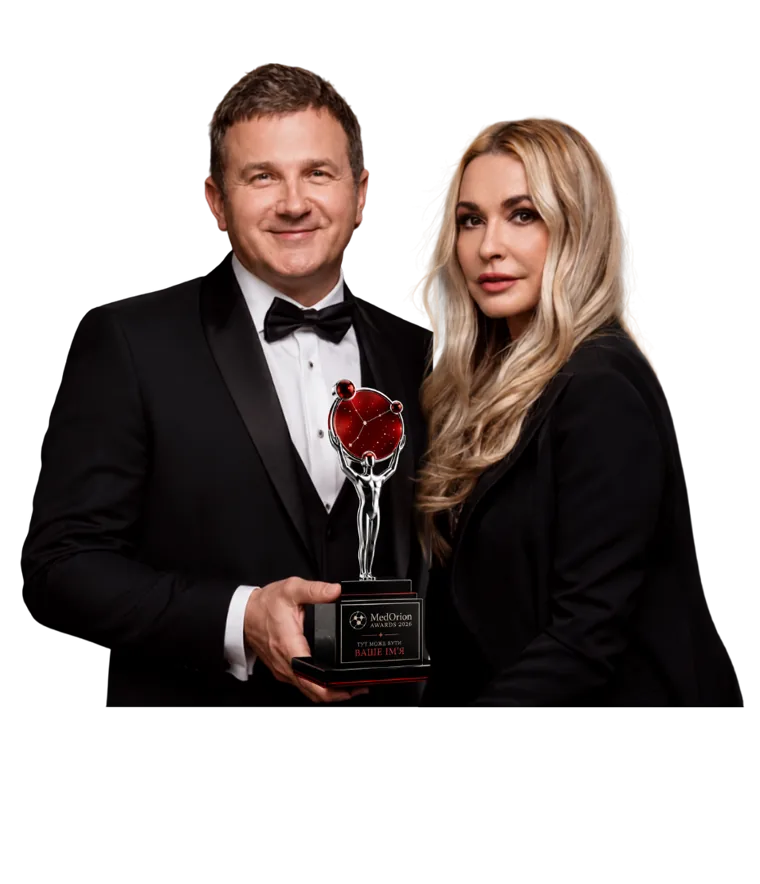
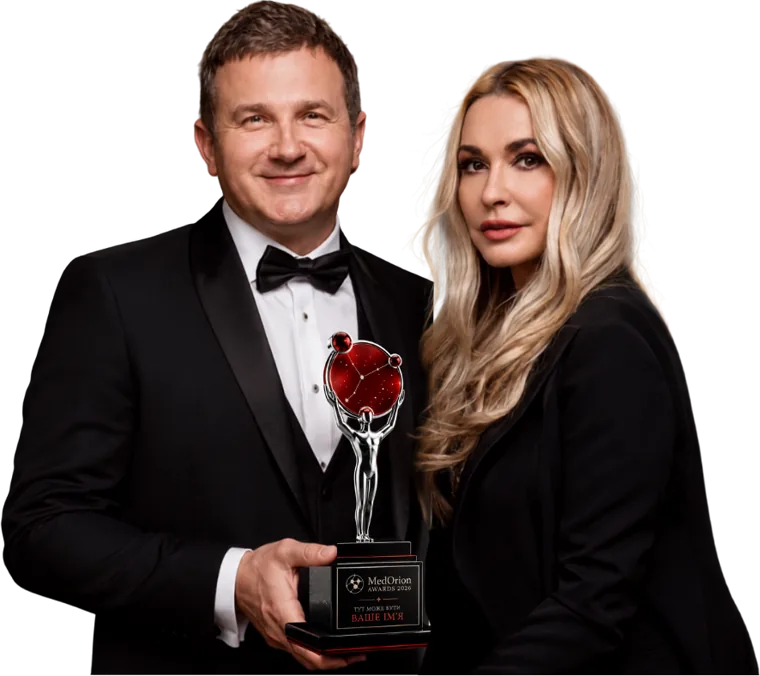
Hero: менший логотип, більші ведучі, плашки нижче, компактніше
Мобільна версія:
- логотип удвічі менший (285px -> 127px);
- ведучі на всю ширину замість 86%;
- плашки з іменами опущено на піджаки — на обличчях їх більше немає;
- кнопка одразу під фото;
- заголовок у два рядки замість чотирьох.

Прибрано підзаголовок «Нагороджуємо лідерів...».

Фото перекроєно точно по межах непрозорих пікселів: у файлі було 20%
порожнечі знизу, через що між ведучими й кнопкою зяяв провал 78px.
Тепер вміст заповнює кадр повністю.

Десктоп: hero стискався до 1235px і кнопка йшла під згин. Зменшено
кегль заголовка, логотип і висоту фото (обмежено 36vh) — на 1440x900
кнопка вміщається.

diff --git a/assets/css/main.css b/assets/css/main.css
@@ -97,7 +97,7 @@ h1,h2,h3,h4{
 /* the vw term has to carry small screens too — a high rem floor clips
    long Ukrainian compounds like "beauty-індустрії" on a 375px phone */
 h1{
-  font-size:clamp(1.95rem,8.2vw,5rem);
+  font-size:clamp(1.95rem,5.4vw,3.4rem);
   line-height:1.07;font-weight:700;
   overflow-wrap:break-word;
 }
@@ -451,7 +451,7 @@ body.locked{overflow:hidden}
   min-height:calc(100svh - var(--ticker-h));
   display:flex;align-items:center;justify-content:center;
   text-align:center;
-  padding-block:clamp(94px,11vh,118px) clamp(44px,5vh,66px);
+  padding-block:clamp(74px,9vh,100px) clamp(28px,3.4vh,46px);
   background:var(--black);
 }
 /* animated ruby gradient (WebGL) — silky blades of light on black */
@@ -486,14 +486,8 @@ body.locked{overflow:hidden}
 
 /* Stacked, centred: info and logo on top, the hosts in the middle,
    the call to action underneath. */
-.hero-inner{display:flex;flex-direction:column;align-items:center;gap:clamp(14px,1.8vw,22px)}
+.hero-inner{display:flex;flex-direction:column;align-items:center;gap:clamp(10px,1.3vw,17px)}
 .hero-copy{display:contents}
-
-.hero-sub{
-  font-size:clamp(1rem,1.35vw,1.16rem);line-height:1.55;
-  letter-spacing:-.014em;color:var(--grey);
-  max-width:34ch;margin:0;
-}
 
 /* the hosts, cut out, standing on the page itself */
 .hero-hosts{
@@ -502,7 +496,10 @@ body.locked{overflow:hidden}
   margin-top:clamp(-6px,-1vw,0px);
 }
 .hero-hosts img{
-  width:100%;height:auto;display:block;
+  width:auto;max-width:100%;
+  /* capped against the viewport so the CTA stays above the fold */
+  max-height:clamp(250px,36vh,420px);
+  height:auto;display:block;margin-inline:auto;
   filter:drop-shadow(0 30px 60px rgba(0,0,0,.75));
 }
 /* glass name plates beside each host */
@@ -517,12 +514,13 @@ body.locked{overflow:hidden}
   white-space:nowrap;
   text-align:left;
 }
-.hh-left {left:clamp(-14px,-2%,0px);  top:44%}
-.hh-right{right:clamp(-14px,-2%,0px); top:26%}
+/* kept low enough to sit over the jackets, never across a face */
+.hh-left {left:clamp(-14px,-2%,0px);  top:64%}
+.hh-right{right:clamp(-14px,-2%,0px); top:53%}
 .hh-name{font-size:clamp(.84rem,1.15vw,.98rem);font-weight:600;letter-spacing:-.02em;color:var(--white)}
 .hh-role{font-size:10.5px;font-weight:500;color:var(--ruby)}
 
-.hero h1{max-width:15ch;margin:0}
+.hero h1{max-width:24ch;margin:0}
 .hero-actions{
   display:flex;flex-wrap:wrap;align-items:center;justify-content:center;
   gap:14px;margin-top:6px;
@@ -544,7 +542,7 @@ body.locked{overflow:hidden}
 /* ---------- hero wordmark: silver logo with a metallic sheen ---------- */
 .hero-logo{
   position:relative;
-  width:min(76%,440px);
+  width:min(56%,320px);
   margin-inline:auto;
 }
 /* ruby bloom sitting behind the mark */
@@ -1070,8 +1068,7 @@ body.locked{overflow:hidden}
   .hero-inner{grid-template-columns:1fr;gap:clamp(24px,4vw,36px)}
   .hero-copy{align-items:center;text-align:center}
   .hero h1{max-width:18ch}
-  .hero-sub{max-width:44ch}
-  .hero-hosts{max-width:min(86%,430px);margin-inline:auto}
+  .hero-hosts{max-width:min(100%,520px);margin-inline:auto}
   .nav-links{display:none}
   .nav-cta .btn{display:none}
   .burger{display:flex}
@@ -1092,6 +1089,18 @@ body.locked{overflow:hidden}
 }
 
 @media (max-width:700px){
+  /* phone hero: small logo, big hosts, compact headline, button close under */
+  .hero-logo{width:min(38%,190px)}
+  .hero-hosts{max-width:100%;width:100%;margin-top:-6px}
+  .hero-inner{gap:10px}
+  .hero h1{font-size:clamp(1.6rem,6.6vw,2.2rem);max-width:22ch}
+  .hero-actions{margin-top:-6px}
+  .hh-tag{padding:7px 11px;border-radius:11px}
+  .hh-name{font-size:.8rem}
+  .hh-role{font-size:9.5px}
+  .hh-left {left:-6px; top:66%}
+  .hh-right{right:-6px; top:55%}
+
   .sticky-cta{display:block}
   .scroll-cue{display:none}
   /* the arrow is hidden here, but the number and icon still need their own

diff --git a/index.html b/index.html
@@ -20,7 +20,7 @@
 <link rel="preconnect" href="https://fonts.googleapis.com">
 <link rel="preconnect" href="https://fonts.gstatic.com" crossorigin>
 <link href="https://fonts.googleapis.com/css2?family=Inter:wght@400;500;600;700&display=swap" rel="stylesheet">
-<link rel="stylesheet" href="assets/css/main.css?v=20260830n">
+<link rel="stylesheet" href="assets/css/main.css?v=20260830r">
 
 <script type="application/ld+json">
 {
@@ -241,10 +241,6 @@
         Головна премія <span class="mute">медицини та beauty-індустрії</span>
       </h1>
 
-      <p class="hero-sub rv on d2">
-        Нагороджуємо лідерів медицини та beauty-індустрії 2026 року.
-      </p>
-
       </div>
 
       <div class="hero-hosts rv on d3">
@@ -252,7 +248,7 @@
           <source srcset="assets/img/hosts-cut.webp" type="image/webp">
           <img src="assets/img/hosts-cut.png"
                alt="Юрій Горбунов та Ольга Сумська зі статуеткою MedOrion Awards 2026"
-               width="760" height="884" fetchpriority="high">
+               width="760" height="676" fetchpriority="high">
         </picture>
         <span class="hh-tag hh-left">
           <span class="hh-name">Юрій Горбунов</span>
@@ -625,7 +621,7 @@
         <source srcset="assets/img/hosts-cut.webp" type="image/webp">
         <img src="assets/img/hosts-cut.png"
              alt="Юрій Горбунов та Ольга Сумська зі статуеткою MedOrion Awards 2026"
-             width="760" height="884" loading="lazy" decoding="async">
+             width="760" height="676" loading="lazy" decoding="async">
       </picture>
       <figcaption>
         <span class="hh-role">Ведучі премії</span>
@@ -945,6 +941,6 @@
   </div>
 </div>
 
-<script src="assets/js/main.js?v=20260830n"></script>
+<script src="assets/js/main.js?v=20260830r"></script>
 </body>
 </html>
